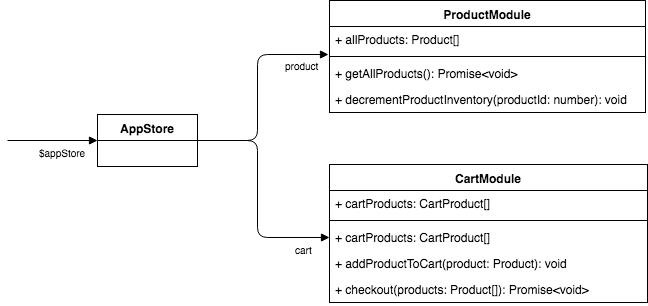
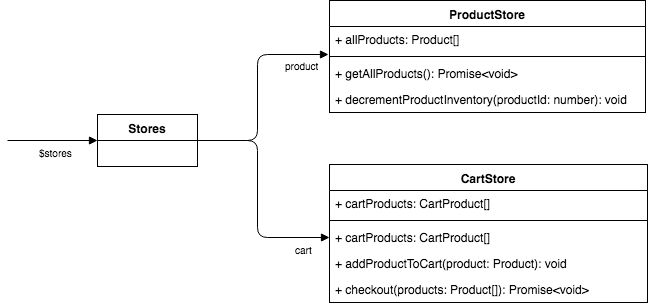
storeをstoresのように複数形に変更したことによる関連箇所の修正

diff --git a/src/app/stores/cart-store/index.ts b/src/app/stores/cart-store/index.ts
@@ -1,11 +1,7 @@
 import shopApi from '../../api/shop-api';
-import { CartModule, CartProduct, CheckoutStatus, Product } from '../types';
-import { BaseModule } from './base';
+import { CartStore, CartProduct, CheckoutStatus, Product } from '../types';
+import { BaseStore } from '../base';
 import { Component } from 'vue-property-decorator';
-
-export default function newCartModule(): CartModule {
-  return new CartModuleImpl();
-}
 
 interface CartState {
   added: Array<{ id: number, quantity: number }>;
@@ -13,7 +9,7 @@ interface CartState {
 }
 
 @Component
-class CartModuleImpl extends BaseModule<CartState> implements CartModule {
+class CartStoreImpl extends BaseStore<CartState> implements CartStore {
 
   //----------------------------------------------------------------------
   //
@@ -40,7 +36,7 @@ class CartModuleImpl extends BaseModule<CartState> implements CartModule {
   }
 
   get cartProducts(): CartProduct[] {
-    const allProducts = this.$appStore.product.allProducts;
+    const allProducts = this.$stores.product.allProducts;
     return this.state.added.map(({ id, quantity }) => {
       const product = allProducts.find((item) => item.id === id);
       return {
@@ -74,7 +70,7 @@ class CartModuleImpl extends BaseModule<CartState> implements CartModule {
         this.incrementItemQuantity(cartItem.id);
       }
       // 在庫を1つ減らす
-      this.$appStore.product.decrementProductInventory(product.id);
+      this.$stores.product.decrementProductInventory(product.id);
     }
   }
 
@@ -114,3 +110,6 @@ class CartModuleImpl extends BaseModule<CartState> implements CartModule {
   }
 
 }
+
+const cartStore: CartStore = new CartStoreImpl();
+export default cartStore;

diff --git a/src/app/views/shopping-view/cart-modal.vue b/src/app/views/shopping-view/cart-modal.vue
@@ -26,7 +26,7 @@
 
 <script lang="ts">
   import { Component } from 'vue-property-decorator';
-  import { CartProduct, CheckoutStatus, Product } from '../../store/types';
+  import { CartProduct, CheckoutStatus, Product } from '../../stores/types';
   import { VueComponent } from '../../components';
 
   @Component
@@ -34,14 +34,14 @@
 
     private opened: boolean = false;
 
-    private get products(): CartProduct[] { return this.$appStore.cart.cartProducts; }
+    private get products(): CartProduct[] { return this.$stores.cart.cartProducts; }
 
-    private get total(): number { return this.$appStore.cart.cartTotalPrice; }
+    private get total(): number { return this.$stores.cart.cartTotalPrice; }
 
     private get checkoutStatus(): { result: boolean, message: string } {
       const result =
-        this.$appStore.cart.checkoutStatus === CheckoutStatus.None ||
-        this.$appStore.cart.checkoutStatus === CheckoutStatus.Successful;
+        this.$stores.cart.checkoutStatus === CheckoutStatus.None ||
+        this.$stores.cart.checkoutStatus === CheckoutStatus.Successful;
       return {
         result,
         message: result ? '' : 'Checkout failed.',
@@ -49,7 +49,7 @@
     }
 
     private async checkout(products: Product[]): Promise<void> {
-      await this.$appStore.cart.checkout(products);
+      await this.$stores.cart.checkout(products);
       if (this.checkoutStatus.result) {
         this.opened = false;
       }

diff --git a/src/app/stores/product-store/index.ts b/src/app/stores/product-store/index.ts
@@ -1,19 +1,15 @@
-import shopApi, { Product as ApiProduct } from '../../api/shop-api';
-import { BaseModule } from './base';
+import shopApi from '../../api/shop-api';
+import { BaseStore } from '../base';
 import { Component } from 'vue-property-decorator';
 import { NoCache } from '../../components/decorators';
-import { Product, ProductModule } from '../types';
-
-export default function newProductModule(): ProductModule {
-  return new ProductModuleImpl();
-}
+import { Product, ProductStore } from '../types';
 
 interface ProductState {
   all: Product[];
 }
 
 @Component
-class ProductModuleImpl extends BaseModule<ProductState> implements ProductModule {
+class ProductStoreImpl extends BaseStore<ProductState> implements ProductStore {
 
   //----------------------------------------------------------------------
   //
@@ -58,3 +54,6 @@ class ProductModuleImpl extends BaseModule<ProductState> implements ProductModul
   }
 
 }
+
+const productStore: ProductStore = new ProductStoreImpl();
+export default productStore;

diff --git a/src/app/views/shopping-view/index.vue b/src/app/views/shopping-view/index.vue
@@ -44,7 +44,7 @@
 <script lang="ts">
   import CartModal from './cart-modal.vue';
   import { Component } from 'vue-property-decorator';
-  import { Product } from '../../store/types';
+  import { Product } from '../../stores/types';
   import { VueComponent } from '../../components';
 
   @Component({
@@ -54,7 +54,7 @@
   })
   export default class ShoppingView extends VueComponent {
     private created() {
-      this.$appStore.product.getAllProducts();
+      this.$stores.product.getAllProducts();
     }
 
     private get cartModal(): CartModal {
@@ -62,11 +62,11 @@
     }
 
     private get products(): Product[] {
-      return this.$appStore.product.allProducts;
+      return this.$stores.product.allProducts;
     }
 
     private addProductToCart(product: Product): void {
-      this.$appStore.cart.addProductToCart(product);
+      this.$stores.cart.addProductToCart(product);
     }
 
     private openCartModal(): void {

diff --git a/src/app/stores/types.ts b/src/app/stores/types.ts
@@ -6,19 +6,19 @@ import { Product as ApiProduct } from '../api/shop-api';
 //
 //----------------------------------------------------------------------
 
-export interface AppStore {
-  readonly product: ProductModule;
+export interface Stores {
+  readonly product: ProductStore;
 
-  readonly cart: CartModule;
+  readonly cart: CartStore;
 }
 
 //----------------------------------------------------------------------
 //
-//  Modules
+//  Stores
 //
 //----------------------------------------------------------------------
 
-export interface ProductModule {
+export interface ProductStore {
   readonly allProducts: Product[];
 
   decrementProductInventory(productId: number): void;
@@ -26,7 +26,7 @@ export interface ProductModule {
   getAllProducts(): Promise<void>;
 }
 
-export interface CartModule {
+export interface CartStore {
   readonly checkoutStatus: CheckoutStatus;
 
   readonly cartProducts: CartProduct[];

diff --git a/src/app/stores/index.ts b/src/app/stores/index.ts
@@ -1,0 +1,40 @@
+import Vue from 'vue';
+import cartStore from './cart-store';
+import productStore from './product-store';
+import { Stores, CartStore, ProductStore } from './types';
+import { Component } from 'vue-property-decorator';
+
+const debug = process.env.NODE_ENV !== 'production';
+
+@Component
+class StoresImpl extends Vue implements Stores {
+
+  constructor() {
+    super();
+    this.m_product = productStore;
+    this.m_cart = cartStore;
+  }
+
+  private m_product: ProductStore;
+
+  get product(): ProductStore {
+    return this.m_product;
+  }
+
+  private m_cart: CartStore;
+
+  get cart(): CartStore {
+    return this.m_cart;
+  }
+
+}
+
+export function init(): void {
+  Object.defineProperty(
+    Vue.prototype, '$stores', {
+      value: new StoresImpl(),
+      writable: false,
+    },
+  );
+}
+

diff --git a/src/app/index.ts b/src/app/index.ts
@@ -1,15 +1,16 @@
 import '../assets/styles/main.styl';
 import * as ES6Promise from 'es6-promise';
+import * as stores from './stores';
 import * as sw from './service-worker';
 import AppView from './views/index.vue';
 import Vue from 'vue';
 import Vuetify from 'vuetify';
 import router from './router';
-import { appStore } from './store';
 import { currency } from './currency';
 
 ES6Promise.polyfill();
 sw.init();
+stores.init();
 
 Vue.use(Vuetify, {
   theme: {
@@ -24,13 +25,6 @@ Vue.use(Vuetify, {
 });
 
 Vue.filter('currency', currency);
-
-Object.defineProperty(
-  Vue.prototype, '$appStore', {
-    value: appStore,
-    writable: false,
-  },
-);
 
 new Vue({
   el: '#app',

diff --git a/src/app/stores/base.ts b/src/app/stores/base.ts
@@ -1,7 +1,7 @@
 import Vue from 'vue';
 import { clone, cloneDeep } from 'lodash';
 
-export abstract class BaseModule<S> extends Vue {
+export abstract class BaseStore<S> extends Vue {
 
   //----------------------------------------------------------------------
   //

diff --git a/src/types/vue.d.ts b/src/types/vue.d.ts
@@ -1,8 +1,8 @@
 import 'vue';
-import { AppStore } from '../app/store/types';
+import { Stores } from '../app/stores/types';
 
 declare module 'vue/types/vue' {
   interface Vue {
-    $appStore: AppStore;
+    $stores: Stores;
   }
 }

diff --git a/src/app/views/abc-view/index.vue b/src/app/views/abc-view/index.vue
@@ -1,7 +1,7 @@
 <style lang="stylus" scoped>
   @import '~vuetify/src/stylus/settings/_colors'
   .greet-message {
-    --greet-message-color: $indigo.base;
+    --greet-message-color: $indigo.darken-1;
   }
 </style>
 
